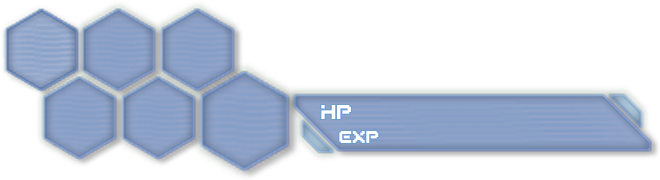
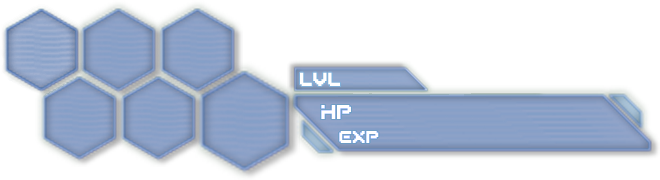
Changed button click sound Changed trooper's third skill to move over time rather than teleport Added level to hud Removed level from player name

Changed region(s): [[0.4242, 0.3333, 0.6667, 0.5278]]

diff --git a/states/HeroTrooperMP.js b/states/HeroTrooperMP.js
@@ -98,6 +98,7 @@ BasicGame.HeroTrooperMP = function (id, game, x, y, team, nick, initLvl) {
 	this.positionQueue = [];
 	this.queueTimer = 0;
 	this.queueCooldown = 1000;
+	this.targetPos;
 };
 
 // Inherit HeroBase
@@ -133,7 +134,6 @@ BasicGame.HeroTrooperMP.prototype.update = function() {
 	this.inCircle = false;
 	this.refMP.physics.arcade.overlap(this, this.refMP.magicCircle, this.magicCircleCallback.bind(this));
 
-	this.getChildAt(0).setText(this.nick + " " + this.heroLevel);
 	this.getChildAt(0).scale.x = this.facingRight;
 	//this.snipe.debug(0, 0, true);
 };
@@ -243,6 +243,11 @@ BasicGame.HeroTrooperMP.prototype.handleSkillD = function() {
 		if (this.positionQueue.length > 2) {
 			var i = this.positionQueue.shift();
 		}
+
+	}
+	if (this.targetPos != null) {
+		//console.log("moving to: ", this.targetPos.x, this.targetPos.y);
+		this.game.physics.arcade.moveToXY(this, this.targetPos.x, this.targetPos.y, 2000, 250);
 	}
 
 	if (this.cursor.skillD && this.game.time.now > this.skillDTimer && this.skillsEnabled && this.positionQueue.length > 1) {
@@ -250,16 +255,20 @@ BasicGame.HeroTrooperMP.prototype.handleSkillD = function() {
 		this.skillDTimer = this.game.time.now + this.skillDCooldown; 
 		this.skillDSFX.play();
 
-		var tween = this.game.add.tween(this).to({0: 0}, 100, Phaser.Easing.Linear.None, true, 0, 0);
+		this.targetPos = this.positionQueue[0];
+		this.body.setSize(0, 0, 40, 10);
+		var tween = this.game.add.tween(this).to({0: 0}, 250, Phaser.Easing.Linear.None, true, 0, 0);
 		tween.onStart.add(function() {
     		this.smokeEffect.playUntracked('anim_3', this.x - 20 * this.facingRight, this.y - 10);
     		this.smokeEffect.scale.x = this.facingRight * -0.5;
-
-			this.x = this.positionQueue[0].x;
-			this.y = this.positionQueue[0].y;
 		}, this);
 
-    	this.animations.play('anim_thrust');
+		tween.onComplete.add(function() {
+			this.targetPos = null;
+			this.body.setSize(70, 140, 40, 10);
+		}, this);
+
+    	this.animations.play('anim_haste');
     	this.animations.currentAnim.frame = 0;
 		this.isAttacking = true;
 		this.skillsEnabled = false;

diff --git a/states/Multiplayer.js b/states/Multiplayer.js
@@ -315,7 +315,7 @@ BasicGame.Multiplayer.prototype.createGame = function() {
 	this.healthBar.anchor.setTo(0, 1);
 	this.healthRect = new Phaser.Rectangle(0, 0, this.healthBar.width, this.healthBar.height);
 
-	this.healthBarPercentage = this.game.add.text(505, this.game.height - 65, '0%', { font: '14pt myfont', align: 'right', fill: 'white', stroke: 'black', strokeThickness: 2});
+	this.healthBarPercentage = this.game.add.text(505, this.game.height - 65, '0%', { font: '14pt myfont', align: 'right', fill: 'white', stroke: '#7cabd5', strokeThickness: 2});
 	this.healthBarPercentage.fixedToCamera = true;
 	this.healthBarPercentage.anchor.setTo(0.5, 0.5);
 
@@ -324,9 +324,13 @@ BasicGame.Multiplayer.prototype.createGame = function() {
 	this.expBar.anchor.setTo(0, 1);
 	this.expRect = new Phaser.Rectangle(0, 0, this.expBar.width, this.expBar.height);
 
-	this.expBarPercentage = this.game.add.text(520, this.game.height - 42, '0%', { font: '14pt myfont', align: 'right', fill: 'white', stroke: 'black', strokeThickness: 2});
+	this.expBarPercentage = this.game.add.text(520, this.game.height - 42, '0%', { font: '14pt myfont', align: 'right', fill: 'white', stroke: '#7cabd5', strokeThickness: 2});
 	this.expBarPercentage.fixedToCamera = true;
 	this.expBarPercentage.anchor.setTo(0.5, 0.5);
+
+	this.playerLevel = this.game.add.text(360, this.game.height - 98, '[25]', {font: '16pt myfont', align:'right', fill:'white', stroke:'#7cabd5', strokeThickness: 2});
+	this.playerLevel.fixedToCamera = true;
+	this.playerLevel.anchor.setTo(0, 0.5);
 
 	// Customized skill and portrait
 	var char = BasicGame.selectedChar.substring(7);
@@ -513,6 +517,9 @@ BasicGame.Multiplayer.prototype.update = function() {
 };
 
 BasicGame.Multiplayer.prototype.handleHUD = function() {
+	// Level
+	this.playerLevel.setText("[" + this.player.heroLevel + "]");
+
 	// Health
 	this.healthBarPercentage.setText(this.game.math.floorTo(this.player.getHP() * 100) + "%");
 	this.healthRect.width = 269 * this.player.getHP();

diff --git a/states/MainGame.js b/states/MainGame.js
@@ -592,7 +592,7 @@ BasicGame.MainGame.prototype.createGame = function() {
 	this.healthBar.anchor.setTo(0, 1);
 	this.healthRect = new Phaser.Rectangle(0, 0, this.healthBar.width, this.healthBar.height);
 
-	this.healthBarPercentage = this.game.add.text(505, this.game.height - 65, '0%', { font: '14pt myfont', align: 'right', fill: 'white', stroke: 'black', strokeThickness: 2});
+	this.healthBarPercentage = this.game.add.text(505, this.game.height - 65, '0%', { font: '14pt myfont', align: 'right', fill: 'white', stroke: '#7cabd5', strokeThickness: 2});
 	this.healthBarPercentage.fixedToCamera = true;
 	this.healthBarPercentage.anchor.setTo(0.5, 0.5);
 
@@ -601,9 +601,13 @@ BasicGame.MainGame.prototype.createGame = function() {
 	this.expBar.anchor.setTo(0, 1);
 	this.expRect = new Phaser.Rectangle(0, 0, this.expBar.width, this.expBar.height);
 
-	this.expBarPercentage = this.game.add.text(520, this.game.height - 42, '0%', { font: '14pt myfont', align: 'right', fill: 'white', stroke: 'black', strokeThickness: 2});
+	this.expBarPercentage = this.game.add.text(520, this.game.height - 42, '0%', { font: '14pt myfont', align: 'right', fill: 'white', stroke: '#7cabd5', strokeThickness: 2});
 	this.expBarPercentage.fixedToCamera = true;
 	this.expBarPercentage.anchor.setTo(0.5, 0.5);
+
+	this.playerLevel = this.game.add.text(360, this.game.height - 98, '[25]', {font: '16pt myfont', align:'right', fill:'white', stroke:'#7cabd5', strokeThickness: 2});
+	this.playerLevel.fixedToCamera = true;
+	this.playerLevel.anchor.setTo(0, 0.5);
 
 	// Customized skill and portrait
 	var char = BasicGame.selectedChar.substring(7);
@@ -825,6 +829,9 @@ BasicGame.MainGame.prototype.update = function() {
 };
 
 BasicGame.MainGame.prototype.handleHUD = function() {
+	// Level
+	this.playerLevel.setText("[" + this.player.heroLevel + "]");
+
 	// Health
 	this.healthBarPercentage.setText(this.game.math.floorTo(this.player.getHP() * 100) + "%");
 	this.healthRect.width = 269 * this.player.getHP();

diff --git a/states/HeroGunnerMP.js b/states/HeroGunnerMP.js
@@ -74,7 +74,7 @@ BasicGame.HeroGunnerMP = function (id, game, x, y, team, nick, initLvl) {
     this.weapon.fireAngle = 0;												
     this.weapon.fireRate = 0;					
     this.weapon.bulletKillType = Phaser.Weapon.KILL_LIFESPAN;		
-    this.weapon.bulletLifespan = 500;	
+    this.weapon.bulletLifespan = 1000;	
     this.weapon.bulletSpeed = 1200;											
     this.weapon.bulletGravity = new Phaser.Point(0, -this.refMP.gravity);	
     this.weapon.trackSprite(this, 0, -50);			
@@ -214,9 +214,9 @@ BasicGame.HeroGunnerMP.prototype.update = function() {
 	this.refMP.physics.arcade.overlap(this.pack.bullets, BasicGame.playerCG, this.healthPackCallback.bind(this));
 
 	// Collide with shield
-	this.refMP.physics.arcade.overlap(this.weapon.bullets, BasicGame.shieldCG, this.collideCallback.bind(this));
-	this.refMP.physics.arcade.overlap(this.trap.bullets, BasicGame.shieldCG, this.collideCallback.bind(this));
-	this.refMP.physics.arcade.overlap(this.mite.bullets, BasicGame.shieldCG, this.collideCallback.bind(this));
+	this.refMP.physics.arcade.collide(this.weapon.bullets, BasicGame.shieldCG, this.collideCallback.bind(this));
+	this.refMP.physics.arcade.collide(this.trap.bullets, BasicGame.shieldCG, this.collideCallback.bind(this));
+	this.refMP.physics.arcade.collide(this.mite.bullets, BasicGame.shieldCG, this.collideCallback.bind(this));
 
 	// Collide with mite
 	this.refMP.physics.arcade.overlap(this.weapon.bullets, BasicGame.miteCG, this.miteCallback, null, { this: this, team: this.myTeam});
@@ -226,7 +226,6 @@ BasicGame.HeroGunnerMP.prototype.update = function() {
 	this.inCircle = false;
 	this.refMP.physics.arcade.overlap(this, this.refMP.magicCircle, this.magicCircleCallback.bind(this));
 
-	this.getChildAt(0).setText(this.nick + " " + this.heroLevel);
 	this.getChildAt(0).scale.x = this.facingRight;
 	//this.weapon.debug(0, 0, true);
 	//this.trap.debug(0, 100, true);

diff --git a/states/HeroDestroyerMP.js b/states/HeroDestroyerMP.js
@@ -151,8 +151,8 @@ BasicGame.HeroDestroyerMP.prototype.update = function() {
 	this.refMP.physics.arcade.overlap(this.grenade.bullets, BasicGame.playerCG, this.grenadeCallback.bind(this));
 
 	// Collide with shield
-	this.refMP.physics.arcade.overlap(this.weapon.bullets, BasicGame.shieldCG, this.collideCallback.bind(this));
-	this.refMP.physics.arcade.overlap(this.grenade.bullets, BasicGame.shieldCG, this.collideCallback.bind(this));
+	this.refMP.physics.arcade.collide(this.weapon.bullets, BasicGame.shieldCG, this.collideCallback.bind(this));
+	this.refMP.physics.arcade.collide(this.grenade.bullets, BasicGame.shieldCG, this.collideCallback.bind(this));
 
 	// Collide with mite
 	this.refMP.physics.arcade.overlap(this.attackCollider, BasicGame.miteCG, this.miteCallback, null, { this: this, team: this.myTeam});
@@ -162,7 +162,6 @@ BasicGame.HeroDestroyerMP.prototype.update = function() {
 	this.inCircle = false;
 	this.refMP.physics.arcade.overlap(this, this.refMP.magicCircle, this.magicCircleCallback.bind(this));
 
-	this.getChildAt(0).setText(this.nick + " " + this.heroLevel);
 	this.getChildAt(0).scale.x = this.facingRight;
 	//this.game.debug.body(this.attackCollider);
 	//this.weapon.debug(0, 0, true);

diff --git a/states/Boot.js b/states/Boot.js
@@ -167,7 +167,7 @@ BasicGame.Boot.prototype = {
         this.load.audio('trooper_skillA', 'audio/heroes/trooper/default.ogg');
         this.load.audio('trooper_skillB', 'audio/heroes/trooper/haste.ogg');
         this.load.audio('trooper_skillC', 'audio/heroes/trooper/invis.ogg');
-        this.load.audio('trooper_skillD', 'audio/heroes/trooper/haste.ogg');
+        this.load.audio('trooper_skillD', 'audio/heroes/trooper/backtrack.ogg');
         this.load.audio('trooper_skillE', 'audio/heroes/trooper/snipe.ogg');
 
         this.load.audio('walker_skillA', 'audio/heroes/walker/default.ogg');

diff --git a/states/HeroBase.js b/states/HeroBase.js
@@ -133,7 +133,7 @@ BasicGame.HeroBase = function (id, game, x, y, sprite, team, nick) {
 	this.delta = this.refMP.delta;
 
 	var teamFill = (team == BasicGame.myTeam) ? "#9AFEFF" : "red";
-	var text = this.game.add.text(0, -this.height/2 - 10, this.nick + " " + this.heroLevel, { font: '12pt myfont', align: 'left', fill: teamFill, align: 'center'});
+	var text = this.game.add.text(0, -this.height/2 - 10, this.nick, { font: '12pt myfont', align: 'left', fill: teamFill, align: 'center'});
 	text.anchor.setTo(0.5, 0);
 	this.addChild(text);
 

diff --git a/states/HeroWalkerMP.js b/states/HeroWalkerMP.js
@@ -180,7 +180,6 @@ BasicGame.HeroWalkerMP.prototype.update = function() {
 	this.inCircle = false;
 	this.refMP.physics.arcade.overlap(this, this.refMP.magicCircle, this.magicCircleCallback.bind(this));
 
-	this.getChildAt(0).setText(this.nick + " " + this.heroLevel);
 	this.getChildAt(0).scale.x = this.facingRight;
 	//this.game.debug.body(this);
 	//this.game.debug.body(this.shield);
